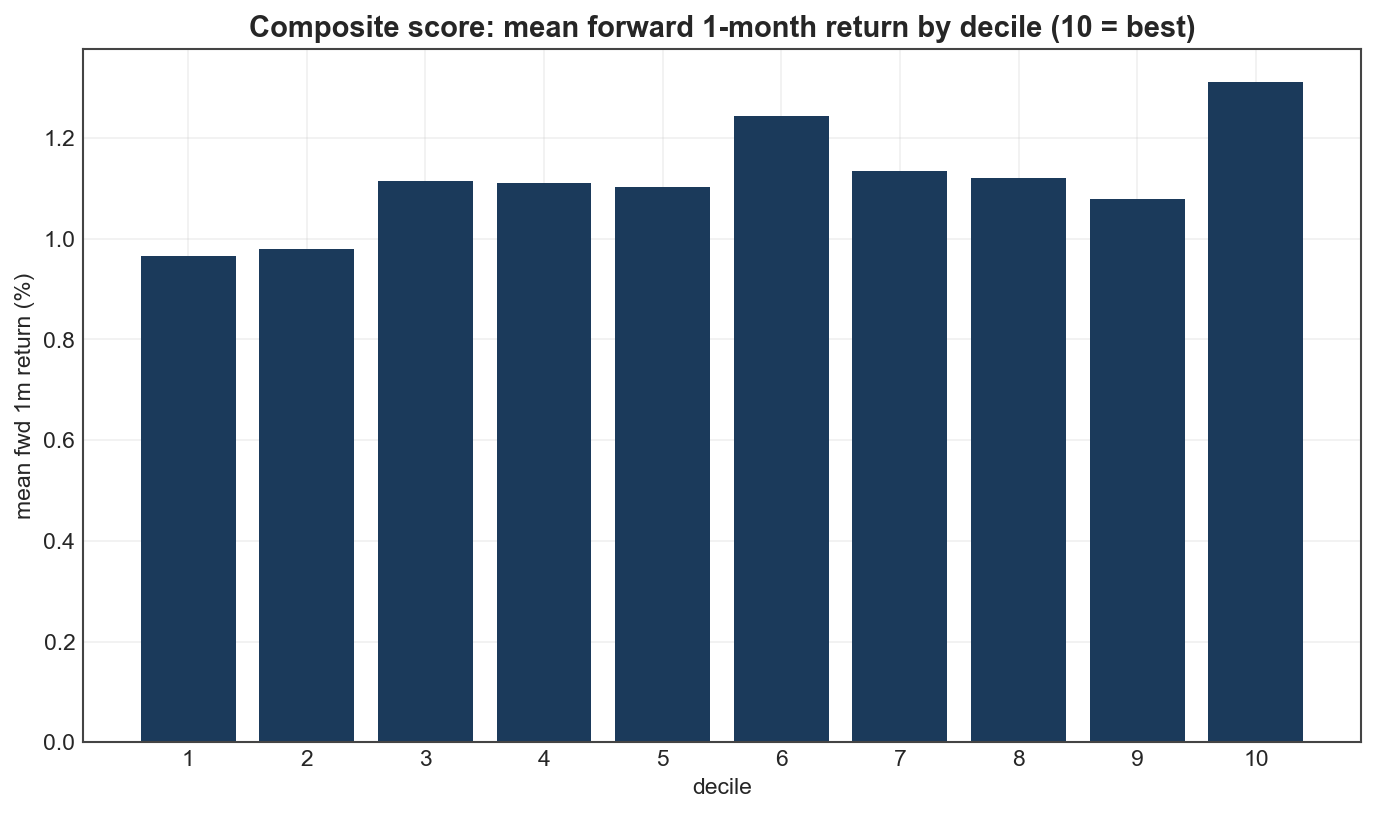
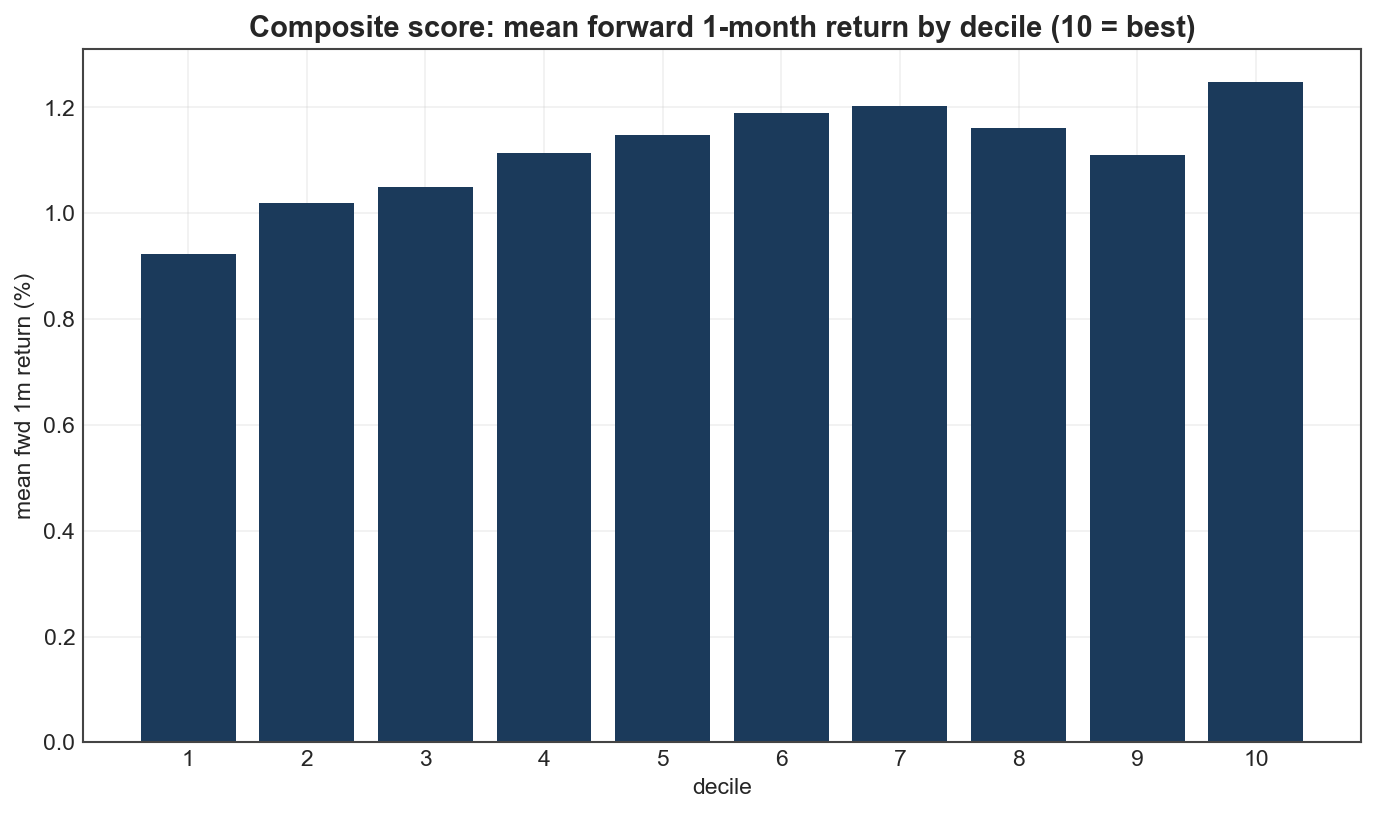
Refresh value factors with live price (data-integrity audit fix)
Audit of corporate-action / per-share adjustment found FMP bakes the stale
period-end price into its value ratios (held flat until the next filing), so the
value signal used a ~2-3 month-old price. Fix: pull the split-adjusted,
dividend-unadjusted close (FMP 'full' series) and rescale each value yield + EV +
market cap to the live rebalance-date price (split-safe, no dividend
contamination). Prices/per-share fundamentals were already correctly split- and
dilution-adjusted; this only refreshes the price level.

Effect: value 1m IC 0.0023->0.0037 (still weak = real 2010s regime, not artifact);
composite long-only Sharpe 0.91->0.87 as a spurious short-term-reversal tilt baked
into the stale price is removed. The clean composite now ~matches EW S&P 500.

diff --git a/src/qfr/factors/build.py b/src/qfr/factors/build.py
@@ -68,6 +68,42 @@ def _price_factors(rebalance: pd.DatetimeIndex) -> pd.DataFrame:
     return px[["date", "symbol", *cols]]
 
 
+def _refresh_value_prices(m: pd.DataFrame) -> pd.DataFrame:
+    """Attach ``price_ratio`` = price(period-end) / price(rebalance) to the panel.
+
+    FMP bakes the **period-end** price into its value ratios and holds it stale
+    until the next filing, so the price inside our value signal is ~2-3 months
+    old. Multiplying a yield (earnings/book/sales/FCF over price) by this ratio
+    swaps that stale price for the **live rebalance-date** price, leaving the
+    lagged fundamental untouched. Both legs use the split-adjusted,
+    dividend-UNadjusted close (``prices_raw_long``), so the rescaling is
+    split-safe and free of total-return (dividend) contamination. Rows with no
+    matched price get ``price_ratio`` NaN -> caller falls back to the stale ratio.
+    """
+    sdf = read_parquet(settings.processed_dir / "prices_raw_long.parquet")
+    sdf["date"] = pd.to_datetime(sdf["date"])
+    sdf = sdf.dropna(subset=["splitAdjClose"]).sort_values("date")
+    tol = pd.Timedelta(days=7)
+
+    at_reb = pd.merge_asof(
+        m[["date", "symbol"]].sort_values("date"), sdf,
+        on="date", by="symbol", direction="backward", tolerance=tol,
+    ).rename(columns={"splitAdjClose": "px_now"})
+
+    fe = (m[["symbol", "period_end"]].dropna(subset=["period_end"]).drop_duplicates()
+          .rename(columns={"period_end": "date"}).sort_values("date"))
+    at_fil = pd.merge_asof(
+        fe, sdf, on="date", by="symbol", direction="backward", tolerance=tol,
+    ).rename(columns={"date": "period_end", "splitAdjClose": "px_filing"})
+
+    m = m.merge(at_reb[["date", "symbol", "px_now"]], on=["date", "symbol"], how="left")
+    m = m.merge(at_fil[["symbol", "period_end", "px_filing"]], on=["symbol", "period_end"], how="left")
+    m["price_ratio"] = (
+        (m["px_filing"] / m["px_now"]).replace([np.inf, -np.inf], np.nan).clip(lower=0.1, upper=10.0)
+    )
+    return m
+
+
 def build() -> pd.DataFrame:
     m = read_parquet(settings.processed_dir / "master_clean.parquet")
     rebalance = month_end_dates("2000-01-31", "2026-04-30")
@@ -75,15 +111,31 @@ def build() -> pd.DataFrame:
     # Merge price-based factors (computed over full history so momentum has lookback).
     m = m.merge(_price_factors(rebalance), on=["date", "symbol"], how="left")
 
-    # Derived value yields + oriented helpers (all higher = better).
-    m["bookToMarket"] = 1.0 / m["priceToBookRatio"].replace(0, np.nan)
-    m["salesYield"] = 1.0 / m["priceToSalesRatio"].replace(0, np.nan)
-    m["ebitdaToEV"] = 1.0 / m["evToEBITDA"].replace(0, np.nan)
+    # Refresh the stale period-end price baked into FMP's value ratios to the live
+    # rebalance-date price (see _refresh_value_prices). r = price(filing)/price(now):
+    # a yield = fundamental/price scales by r; market cap scales by 1/r.
+    m = _refresh_value_prices(m)
+    r = m["price_ratio"].fillna(1.0)  # no live price -> keep the original stale ratio
+    mktcap_fresh = m["marketCap"] / r
+    net_debt = m["enterpriseValue"] - m["marketCap"]  # balance-sheet, price-insensitive
+    ev_fresh = mktcap_fresh + net_debt
+
+    # Derived value yields + oriented helpers (all higher = better), live price.
+    m["bookToMarket"] = (1.0 / m["priceToBookRatio"].replace(0, np.nan)) * r
+    m["salesYield"] = (1.0 / m["priceToSalesRatio"].replace(0, np.nan)) * r
+    m["earningsYield"] = m["earningsYield"] * r
+    m["freeCashFlowYield"] = m["freeCashFlowYield"] * r
+    m["ebitdaToEV"] = (1.0 / m["evToEBITDA"].replace(0, np.nan)) * (m["enterpriseValue"] / ev_fresh)
     m["lowLeverage"] = -m["debtToEquityRatio"]
     m["lowVol"] = -m["vol_12m"]
-    m["size_raw"] = -np.log(m["marketCap"].replace(0, np.nan))  # small-cap tilt
-    for c in ["bookToMarket", "salesYield", "ebitdaToEV"]:
+    m["size_raw"] = -np.log(mktcap_fresh.replace(0, np.nan))  # small-cap tilt (fresh mkt cap)
+    m["marketCap"] = mktcap_fresh  # carry the live market cap downstream (Part 7 weights)
+    for c in ["bookToMarket", "salesYield", "ebitdaToEV", "earningsYield", "freeCashFlowYield"]:
         m[c] = m[c].replace([np.inf, -np.inf], np.nan)
+
+    _cov = m.loc[m["date"] >= PRIMARY_START, "price_ratio"]
+    logger.info(f"value-price refresh: {_cov.notna().mean():.1%} of 2010+ rows got a live price; "
+                f"price_ratio median={_cov.median():.3f}, IQR=[{_cov.quantile(.25):.3f}, {_cov.quantile(.75):.3f}]")
 
     panel = m[m["investable"] & (m["date"] >= PRIMARY_START)].copy()
     logger.info(

diff --git a/src/qfr/data/prices.py b/src/qfr/data/prices.py
@@ -1,9 +1,15 @@
 """Adjusted daily price assembly from the FMP stable API.
 
 We use the ``dividend-adjusted`` EOD series so that ``adjClose`` reflects both
-splits and dividends — the correct basis for computing total returns. FMP caps
-this endpoint at ~5,000 daily bars per request (~20 years), which fully covers a
-backtest starting in 2008 for both surviving and delisted names.
+splits and dividends — the correct basis for computing total **returns** (the
+``adjClose`` is a total-return index, not a price level).
+
+For value-factor *levels* we also pull the ``full`` series, whose ``close`` is
+**split-adjusted (to today's basis) but NOT dividend-adjusted** — i.e. an actual
+price level, comparable across splits. That lets us refresh value ratios with the
+live rebalance-date price instead of the stale period-end price FMP bakes into
+its ratios (see ``qfr.factors.build``). FMP caps these endpoints at ~5,000 daily
+bars per request (~20 years), which fully covers the 2010+ analysis window.
 """
 
 from __future__ import annotations
@@ -100,3 +106,47 @@ def fetch_prices_long(
     out["date"] = pd.to_datetime(out["date"])
     keep = [c for c in PRICE_COLS if c in out.columns]
     return out[keep].sort_values(["symbol", "date"]).reset_index(drop=True)
+
+
+def fetch_split_adjusted_close(
+    symbols: Iterable[str],
+    client: FMPClient | None = None,
+    *,
+    from_date: str = "2009-01-01",
+    to_date: str | None = None,
+    log_every: int = 100,
+) -> pd.DataFrame:
+    """Pull the ``full``-series ``close`` (split-adjusted, dividend-UNadjusted).
+
+    Unlike ``adjClose`` (a total-return index), this ``close`` is an actual price
+    *level* back-adjusted only for splits, so it is comparable to FMP's
+    per-share fundamentals and period-end ``stockPrice`` (also split-adjusted to
+    today). Used to refresh value ratios to the live rebalance-date price.
+
+    One request per symbol (the 2009+ window is < 5,000 bars, under the cap).
+    Returns ``[symbol, date, splitAdjClose]`` sorted by ``[symbol, date]``.
+    """
+    client = client or FMPClient()
+    symbols = list(symbols)
+    frames: list[pd.DataFrame] = []
+    n = len(symbols)
+    for i, sym in enumerate(symbols, 1):
+        try:
+            rows = client.historical_prices(sym, from_date=from_date, to_date=to_date, series="full")
+        except Exception as e:  # noqa: BLE001 - log and continue the bulk pull
+            logger.warning(f"split-adj prices {sym}: {e}")
+            rows = []
+        if rows:
+            df = pd.DataFrame(rows)
+            if "close" in df.columns:
+                df = df[["date", "close"]].copy()
+                df["symbol"] = sym
+                frames.append(df)
+        if i % log_every == 0:
+            logger.info(f"split-adj prices: {i}/{n} symbols")
+    if not frames:
+        return pd.DataFrame(columns=["symbol", "date", "splitAdjClose"])
+    out = pd.concat(frames, ignore_index=True)
+    out["date"] = pd.to_datetime(out["date"])
+    out = out.rename(columns={"close": "splitAdjClose"})
+    return out[["symbol", "date", "splitAdjClose"]].sort_values(["symbol", "date"]).reset_index(drop=True)

diff --git a/src/qfr/data/collect.py b/src/qfr/data/collect.py
@@ -13,7 +13,7 @@ from __future__ import annotations
 
 from qfr.data.fmp_client import FMPClient
 from qfr.data.fundamentals import STATEMENT_METHODS, fetch_profiles, fetch_statement_long
-from qfr.data.prices import fetch_prices_long
+from qfr.data.prices import fetch_prices_long, fetch_split_adjusted_close
 from qfr.data.universe import all_symbols, build_universe
 from qfr.utils.config import settings
 from qfr.utils.dates import month_end_dates
@@ -55,6 +55,12 @@ def main() -> None:
     )
     write_parquet(prices, out / "prices_long.parquet")
     logger.info(f"prices_long: {len(prices):,} rows -> {prices['symbol'].nunique() if len(prices) else 0} symbols")
+
+    # 2b) Split-adjusted (dividend-unadjusted) close — actual price levels for
+    #     refreshing value ratios to the live rebalance date (2010+ window).
+    raw_close = fetch_split_adjusted_close(symbols, client=client, from_date="2009-01-01", to_date=UNIVERSE_END)
+    write_parquet(raw_close, out / "prices_raw_long.parquet")
+    logger.info(f"prices_raw_long: {len(raw_close):,} rows -> {raw_close['symbol'].nunique() if len(raw_close) else 0} symbols")
 
     # 3) Fundamentals (7 quarterly datasets) ------------------------------
     for kind in STATEMENT_METHODS:
